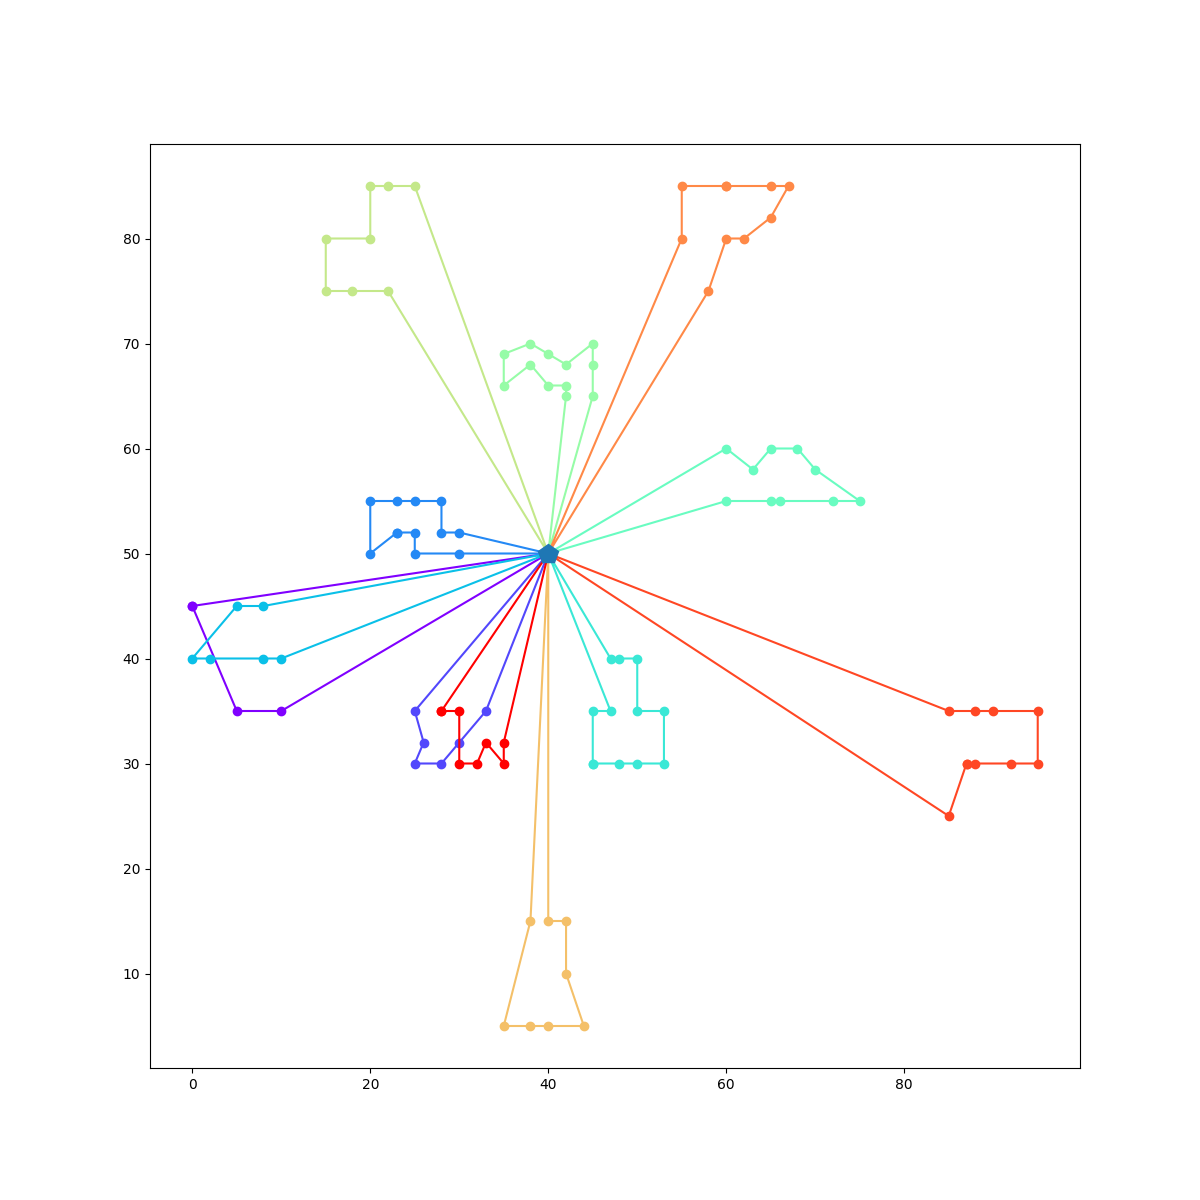
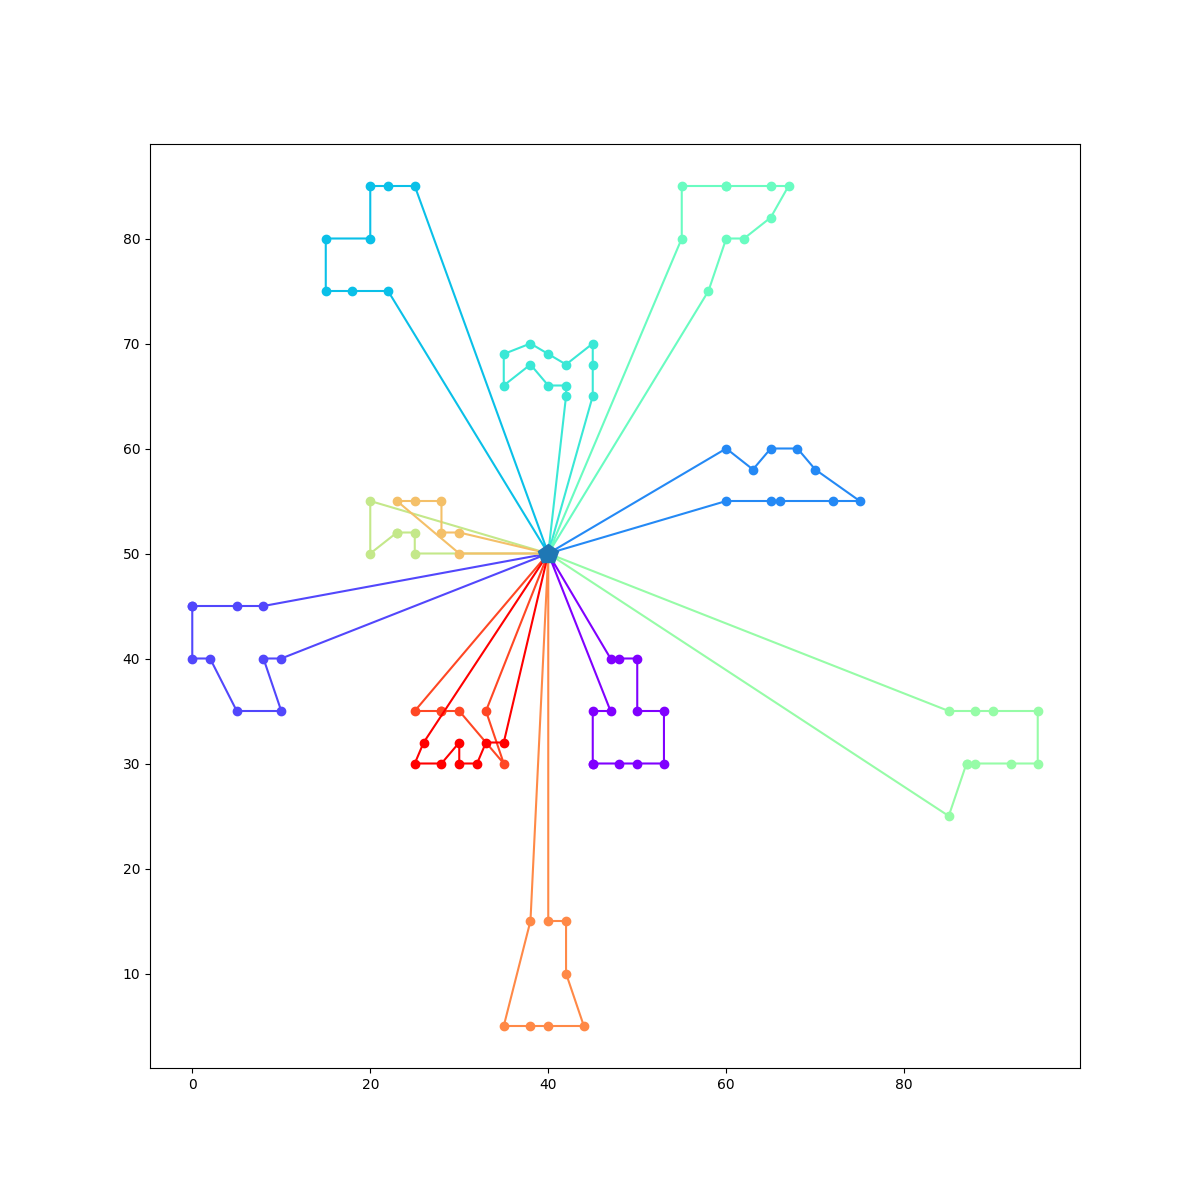
Test each single operator

diff --git a/experiment_singleOpr.py b/experiment_singleOpr.py
@@ -1,0 +1,82 @@
+import Problem, Solution, Route
+from ALNS import ALNS
+from Parameters import Parameters
+import numpy as np
+import os
+import time
+import pandas as pd
+import sys
+
+instance_dir = "Instances"
+
+# Get a list of all files in the Instances directory
+instance_files = os.listdir(instance_dir)
+print(instance_files)
+
+destroyList = [1,2,3,4]
+repairList = [1,2,3]
+tot_results = []
+
+bestCombinations = []
+for file in instance_files:
+    inst = os.path.join(instance_dir, file)
+    instName = inst.replace("Instances/", "")
+    instName = instName.replace(".txt", ".csv")
+    fileName = f"log/singleOpr/singleOprExp_{instName}"
+    bestComb_sol = sys.maxsize
+    print(f"My instance is {inst}")
+    
+    results = []
+    for destroyOpr in destroyList:
+        for repairOpr in repairList:
+            starttime = time.time() # get the start time
+            Parameters.useBattery = False
+            Parameters.overrideOpr = True
+            Parameters.destroy = destroyOpr
+            Parameters.repair = repairOpr
+
+            
+            # Run the problem
+            problem = Problem.PDPTW.readInstance(inst)
+            print(problem)
+            alns = ALNS(problem,4,3)
+            starttime = time.time()        
+            alns.execute()
+
+            endtime = time.time() # get the end time
+            cpuTime = round(endtime-starttime)
+
+            # Store solution into a dict
+            result = {
+                "destroyOpr": int(destroyOpr),
+                "repairOpr": int(repairOpr),
+                "cost": float(alns.bestSolution.distance),
+                "cpuTime": int(cpuTime)
+            }
+            results.append(result)
+            
+            # Find best combination for inst
+            currentComb_sol = alns.bestSolution.distance
+            if currentComb_sol < bestComb_sol:
+                bestComb_sol = currentComb_sol
+                bestComb = (destroyOpr, repairOpr)
+                bestCpuTime = cpuTime
+    
+    # Store best combination of inst
+    bestCombination = {
+        "inst": instName,
+        "best Combination": bestComb,
+        "cost": bestComb_sol,
+        "cpuTime": bestCpuTime
+    }
+    bestCombinations.append(bestCombination)
+
+    # Create list with all the results (useful for future reference)
+    tot_results.append(results)
+
+    # store results as csv
+    results_df = pd.DataFrame(results)
+    results_df.to_csv(fileName)
+
+bestCombinations_df = pd.DataFrame(bestCombinations)
+bestCombinations_df.to_csv("log/singleOpr/bestCombinationForEachInstance.csv")

diff --git a/ALNS.py b/ALNS.py
@@ -84,8 +84,12 @@ class ALNS:
             #decide on the size of the neighbourhood
             sizeNBH = self.randomGen.randint(Parameters.minSizeNBH,Parameters.maxSizeNBH)
             #decide on the destroy and repair operator numbers
-            destroyOpNr = self.determineDestroyOpNr()
-            repairOpNr = self.determineRepairOpNr()
+            if not Parameters.overrideOpr:
+                destroyOpNr = self.determineDestroyOpNr()
+                repairOpNr = self.determineRepairOpNr()
+            elif Parameters.overrideOpr:
+                destroyOpNr = Parameters.destroy
+                repairOpNr = Parameters.repair
             #execute the destroy and the repair and evaluate the result
             self.destroyAndRepair(destroyOpNr, repairOpNr, sizeNBH);
             self.tempSolution.computeDistance()

diff --git a/test.py b/test.py
@@ -1,5 +1,5 @@
 import numpy as np
-
+import os
 
 a = 0
 b = 45
@@ -7,8 +7,12 @@ s = 5
 
 values = np.arange(a, b, s).tolist()
 
-myList = []
-for i in values:
-    myList.append(i) 
 
-print(myList)
+instance_dir = "Instances"
+
+# Get a list of all files in the Instances directory
+instance_files = os.listdir(instance_dir)
+inst = instance_files[0]
+fileName = f"log/singleOpr/singleOprExp_{inst.replace("Instances/", "")}"
+
+print(fileName)

diff --git a/Parameters.py b/Parameters.py
@@ -33,3 +33,8 @@ class Parameters:
 
     # For shaw removal
     alpha = 0.25 # Calibrated
+
+    # To override operators:
+    overrideOpr = False
+    destroy = 2
+    repair = 2
